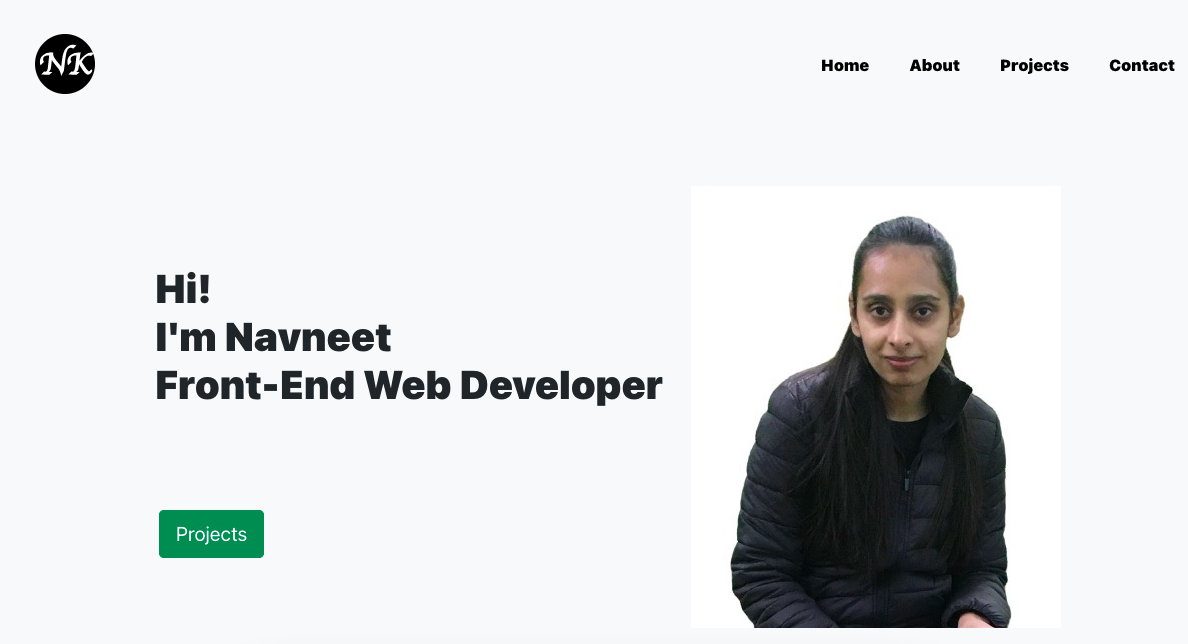
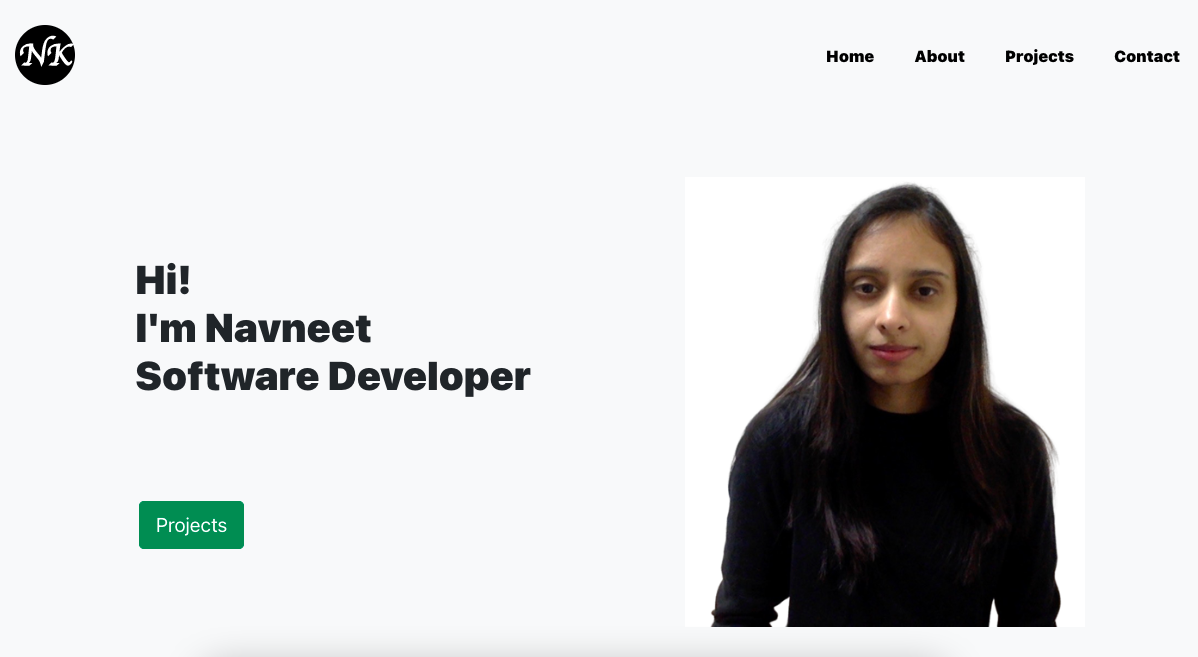
add pic

diff --git a/src/pages/Header.js b/src/pages/Header.js
@@ -18,6 +18,7 @@ const Header = () => {
               Software Developer
               <br />
             </h1>
+
             <br />
             <Link to="#projects_section">
               <button type="button" class="btn btn-success btn-lg btnHeader">
@@ -26,7 +27,8 @@ const Header = () => {
             </Link>
           </Col>
           <Col sm={5}>
-            <img src={require("../components/images/me18.jpeg")} />
+            <img src={require("../components/images/m113w.png")} style={{width:"400px",height:"450px"}}/>
+
           </Col>
         </Row>
       </Container>
